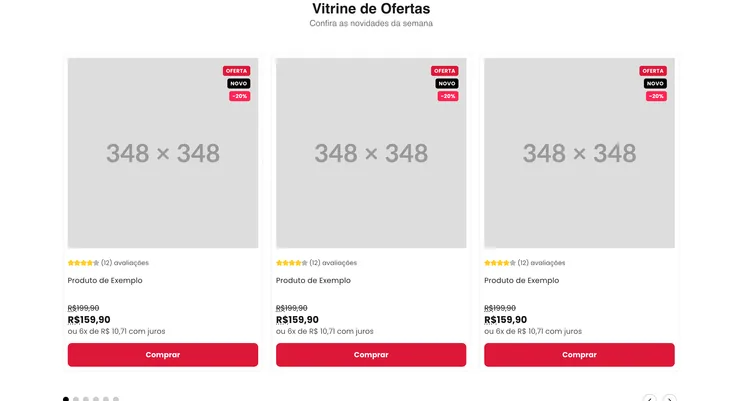
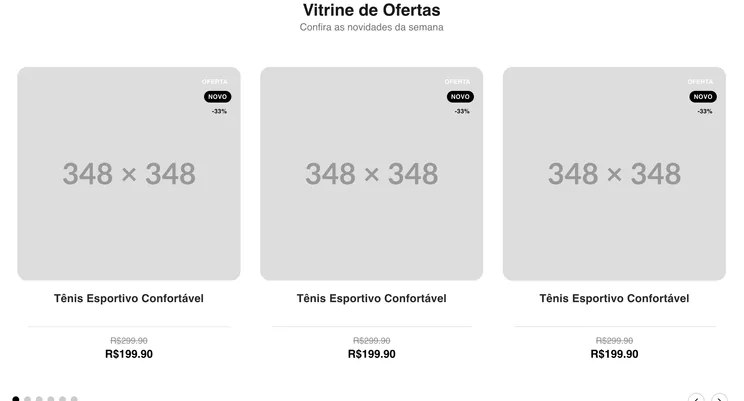
fix(catalogo): a vitrine 2 e a 6 mostravam o card de produto da família 1
Achados de uma revisão que só foi possível depois das thumbs: com cada card do
seletor mostrando o componente de verdade, divergência virou coisa que se vê.
Cada achado passou por um cético antes de virar correção — 24 de 44 sobreviveram,
e as 20 refutadas incluem quase toda a minha hipótese de que os componentes
portados do starter divergiriam do design (não divergem: a réplica é 1:1 com o
componente REAL, e é o mockup que é outra coisa — está no contrato, docs/CATALOGO).

**O bug de produto.** `home/template_2/Showcase` e `home/template_6/Showcase`
importavam o Spot de `common/template_1`. Como `selections` nasce vazio
(useLayoutGenerator:107), esse fallback é o caminho PADRÃO: quem arrastava a
vitrine antes de escolher um card via, no canvas, no /p/{id} e nos PNGs do export,
o card da família errada. Os outros cinco Showcase já importavam o da própria
família. Medido em .funil/Showcase06.png antes, e na thumb regerada depois.

**Duas travas minhas que não travavam.**
- aplicar.mjs derivava `imageSource` só de mapa.json, então tirar um componente
  de lá rebaixava o item para "auto" com a arte do designer intacta em disco — e
  a rodada seguinte de auto.mjs a sobrescrevia. Os "dois cadeados" que o commit
  anterior anunciava eram um só, com uma rodada de atraso. Agora `design` gruda:
  lê-se da linha original antes de zerar. Para rebaixar de verdade, apague o .webp.
- design.mjs fazia exit(1) sem os mockups. Como eles não são versionados (~40 MB),
[…]

diff --git a/src/data/layoutData.ts b/src/data/layoutData.ts
@@ -80,7 +80,8 @@ export type LayoutItem = {
    * `design`  — mockup entregue pelo designer (Banners E-temas). Intocável.
    * `auto`    — screenshot do componente real gerado por `yarn thumbs`.
    *             Vale como **pendência**: é o que ainda não veio do design.
-   * ausente   — sem imagem; o card cai no placeholder.
+   * ausente   — NÃO é estado aceito: o estágio 1 do funil reprova item sem thumb em
+   *              disco. Rode `yarn thumbs:auto` para gerar o screenshot do componente.
    * `scripts/thumbs/auto.mjs` NUNCA sobrescreve um item marcado `design`.
    */
   imageSource?: "design" | "auto";

diff --git a/src/components/templates/home/template_2/Showcase/index.tsx b/src/components/templates/home/template_2/Showcase/index.tsx
@@ -2,7 +2,7 @@
 
 import React from 'react';
 import styles from './index.module.css';
-import Spot from '@/components/templates/common/template_1/Spot';
+import Spot from '@/components/templates/common/template_2/Spot';
 import { TemplateRegistry } from '@/utils/templateRegistry';
 import { LAYOUTS } from '@/data/layoutData';
 import { useLayout } from '@/context/LayoutContext';

diff --git a/src/components/templates/home/template_6/Showcase/index.tsx b/src/components/templates/home/template_6/Showcase/index.tsx
@@ -2,7 +2,7 @@
 
 import React from 'react';
 import styles from './index.module.css';
-import Spot from '@/components/templates/common/template_1/Spot';
+import Spot from '@/components/templates/common/template_6/Spot';
 import { TemplateRegistry } from '@/utils/templateRegistry';
 import { LAYOUTS } from '@/data/layoutData';
 import { useLayout } from '@/context/LayoutContext';

diff --git a/scripts/funil/README.md b/scripts/funil/README.md
@@ -20,8 +20,11 @@ e o `yarn dev` de pé para os estágios 2 e 3. Saídas em `.funil/` (ignorada).
 | Estágio | O que prova | Precisa de |
 |---|---|---|
 | `1-catalogo` | chaves e ids únicos, registry casado, mock em disco, **origem real em `global-templates`** para todo item Tray/Wake, manifest para todo `path` VTEX | nada |
+| `1-grafo` | todo `path` VTEX resolve no grafo de `manifest.json`, com o `AssetRegistry` e o `DependencyResolver` reais do generator | checkouts irmãos de `faststore.starter` e `produtos-template-generator` |
+| `1-variaveis` | toda `cssVar` do `variablesSchema` é consumida pelo CSS, e o `default` bate com o nível 3 do fallback encadeado | nada |
+| `2-fidelidade` | a réplica do catálogo bate com o componente real do starter | dev server **e** o `yarn dev` do `faststore.starter` em :3000 |
 | `2-editor` | shell, canvas, painéis, atalhos, modal, troca de plataforma, fonte que não vaza no `:root`, contraste derivado | dev server |
-| `2-render` | **os 67 componentes do catálogo** montam sozinhos, sem erro de console, com altura e conteúdo (`FUNIL_RENDER_NOVOS=1` reduz aos 23 do redesign) | dev server |
+| `2-render` | **todo item do catálogo** monta sozinho, sem erro de console, com altura e conteúdo (`FUNIL_RENDER_NOVOS=1` reduz aos 23 do redesign) | dev server |
 | `2-edicao` | regras de negócio: singleton substitui, não-singleton coexiste, duplicar/remover, painel de variáveis, troca de plataforma | dev server |
 | `2-geometria` | fidelidade ao Figma: **119 nós comparados** (134 asserções), tolerância por classe de nó e exceções codificadas por eixo. Imprime o censo das fixtures e reprova se a cobertura regredir. **Reprova** | dev server |
 | `2-preview` | visão mobile, link `/p/{id}/{page}` compartilhável e a rota `/gerador/import-log` | dev server |
@@ -166,13 +169,15 @@ a geração do tema inteiro, não só aquele componente.
 (o runner só pega `^\d`). É inventário para decidir.
 
 Ele responde "quais assets do `faststore.starter` nenhum tema consegue receber", e
-existe porque o estágio 1 responde só metade. `conferirImports` parte dos 40 `path`
-VTEX do catálogo — 106 assets. Faltam dois grupos de root que o resto do pipeline
+existe porque o estágio 1 responde só metade. `conferirImports` parte apenas dos
+`path` VTEX do catálogo (63 hoje). Faltam dois grupos de root que o resto do pipeline
 injeta: `overrides/CrossSellingShelf01` (auto-injetado por `useLayoutGenerator`
 quando `ProductShowcase01` é escolhido) e `organisms/ProductShowcase<NN>` (empurrado
 por `BuildPipeline._resolve` para o sufixo da vitrine escolhida). Com os três grupos
-são 46 roots → **109 assets**, e é por isso que uma varredura ingênua acusa o
-`ProductShowcase07` de órfão sem ele ser.
+são **69 roots → 151 assets** dos 186 manifests (medido: o script imprime as quatro
+linhas), e é por isso que uma varredura ingênua acusa o `ProductShowcase07` de órfão
+sem ele ser. Os números envelhecem a cada componente novo — rode `yarn alcance` em vez
+de confiar nestes.
 
 O script também varre **import não declarado nos 186 manifests**, não só nos que
 estão no alcance — um asset com `section` e import não declarado compila aqui e

diff --git a/.claude/commands/from-faststore.md b/.claude/commands/from-faststore.md
@@ -202,7 +202,7 @@ Para cada match, monte um `ComponentVariable` (`{ cssVar, label, type, default, 
 
 ## 6. Registrar nos 3 lugares (ver `CLAUDE.md` → "Adding or editing a template")
 
-1. **`src/utils/templateRegistry.ts`** — `import <Componente> from '@/components/templates/<pagina>/template_N/<Família>';` (no bloco do template N; `<Componente>` = chave com número, ex.: `ProductInfo03`; `<Família>` = pasta do slot, ex.: `ProductInfo` — passo 2) e adicione `<Componente>` ao objeto `TemplateRegistry`. A string-chave **deve** bater com o campo `component` (senão `ThemeRenderer` cai no PNG placeholder).
+1. **`src/utils/templateRegistry.ts`** — `import <Componente> from '@/components/templates/<pagina>/template_N/<Família>';` (no bloco do template N; `<Componente>` = chave com número, ex.: `ProductInfo03`; `<Família>` = pasta do slot, ex.: `ProductInfo` — passo 2) e adicione `<Componente>` ao objeto `TemplateRegistry`. A string-chave **deve** bater com o campo `component` (senão `ThemeRenderer` desenha um marcador vermelho nomeando o componente — não é mais um PNG placeholder mudo).
 2. **`src/data/layoutData.ts`** — `LayoutItem` na `LayoutSection` da seção mapeada:
    - `id`: o número livre do slot (`"03"`); `template`: o número (`"3"`); `selection`/`pagina`: do passo 2 (ambos do **passo 2**, não do sufixo FastStore).
    - `key`: **12 chars único** — gere e cheque colisão (`grep "key:" src/data/layoutData.ts`).
@@ -210,7 +210,14 @@ Para cada match, monte um `ComponentVariable` (`{ cssVar, label, type, default, 
    - `platforms`: inclua `'VTEX'` (pergunte se também `'Tray'`/`'Wake'`).
    - `path`: do `manifest.id` do componente migrado (organism quando for bloco colocável, ex.: `"organisms/ProductDetails02"`) — **obrigatório p/ VTEX**; sem ele o `buildFaststoreConfigJson` descarta a entrada. Pode diferir do `component`.
    - `backgroundVars`: no **caminho A**, derive dos tokens de fundo herdados (`--background-footer`→`"footer"`, `--background-primary-color`→`"primary"`, `--background-secundary-color`→`"secondary"`, `--background-tertiary-color`→`"tertiary"`). No **caminho B** (fiel, sem herança), `[]`.
-   - `image`/`mobile`: `""` (o preview substitui o PNG).
+   - `image`/`imageSource`: **não preencha à mão.** Deixe `image: ""` e, depois de registrar,
+     rode `yarn thumbs:auto` (precisa do `yarn dev` de pé): ele fotografa o componente real,
+     grava `public/images/gerador/<layoutKey>/<Component>.webp` e escreve os dois campos com
+     `imageSource: "auto"` — que é o que sinaliza "ainda sem arte do designer".
+     Sem esse passo o item nasce com o card cinza do `placehold.co` e **fica invisível na
+     contabilidade de pendências** (`docs/THUMBS-DOS-COMPONENTES.md` é gerado a partir do disco).
+   - `mobile`: `""`. Campo declarado e não lido por nenhum componente — os mockups do designer
+     já trazem desktop e celular no mesmo quadro.
    - `variablesSchema`: o array do passo 5.
 
 ## 7. Atualizar docs/memória do catálogo

diff --git a/README.md b/README.md
@@ -84,9 +84,9 @@ o preview, converte o SCSS, deriva o `variablesSchema` e registra tudo.
 3. **Catálogo** — um `LayoutItem` em [src/data/layoutData.ts](src/data/layoutData.ts), com `key`
    única e, para VTEX, o `path` do componente no starter.
 
-Faltando o registro no registry, o item cai num PNG placeholder **sem erro nenhum**. Hoje os dois
-lados estão casados — 67 componentes, 67 itens ativos, zero órfãos — e é o estágio 1 do funil que
-mantém assim, junto com o comando de auditoria no `CLAUDE.md`.
+Faltando o registro no registry, o `ThemeRenderer` desenha um marcador vermelho nomeando o
+componente. Hoje os dois lados estão casados — **90 componentes, 90 itens ativos, zero órfãos** —
+e é o estágio 1 do funil que mantém assim, junto com o comando de auditoria no `CLAUDE.md`.
 
 ---
 
@@ -113,12 +113,17 @@ src/
 └── styles/                     globals · editor-tokens · templates · storefront · preview · editor-canvas
 ```
 
-Os 42 PNGs de `public/images/gerador/` (8,3 MB) **saíram**. Eram screenshots da época anterior
-ao preview em React: o commit `5633c33` trocou `image: "header/desktop/header_01.png"` por
-`image: ""` nos 67 itens e os arquivos ficaram para trás. Com todos vazios, o "fallback" que a
-doc prometia era um `<img src="/images/gerador/">` — 404 mudo. Hoje o `ThemeRenderer` mostra um
-marcador vermelho nomeando o componente que falta no registry, que é o erro que interessa ver.
+Cada card do modal "Componentes de seções" mostra
+`public/images/gerador/<layoutKey>/<Component>.webp`, apontado pelo `image` do item. O campo
+`imageSource` diz se a miniatura é arte do designer (`design`) ou um screenshot do componente
+real (`auto`) — e `auto` **é a pendência**: é o que ainda não veio do design. A contagem viva
+está em [docs/THUMBS-DOS-COMPONENTES.md](docs/THUMBS-DOS-COMPONENTES.md), que é gerado; não a
+copie para cá, que foi assim que a versão anterior desta seção envelheceu.
 
-Os campos `image`/`mobile` do `LayoutItem` continuam existindo e **vazios de propósito**: o
-`SelectSectionItem` os consulta para a miniatura do modal e cai num placeholder externo. Trocar
-essa miniatura pelo preview real é decisão de produto, não limpeza.
+`yarn thumbs` regera tudo (`yarn thumbs:auto` pula a etapa que depende dos mockups, que não são
+versionados). O estágio 1 do funil reprova thumb faltando, `imageSource` ausente, caminho fora da
+regra e arquivo órfão — a partir de 15/09/2026, quando os 90 cards deixaram de ser o mesmo
+quadrado cinza do `placehold.co`.
+
+O campo `mobile` continua declarado e vazio: nenhum componente o lê, e os mockups do designer já
+trazem desktop e celular no mesmo quadro.

diff --git a/CLAUDE.md b/CLAUDE.md
@@ -19,7 +19,7 @@ yarn lint      # next lint
 yarn start     # next start (production)
 ```
 
-There is no test runner. Verification is `yarn funil` — six stages covering catalog integrity, the editor, the export and the theme the generator assembles from it. See [scripts/funil/README.md](scripts/funil/README.md). It needs `yarn dev` up for stages 2 and 3, and a Chrome (or `CHROME_PATH`).
+There is no test runner. Verification is `yarn funil` — the stages in [scripts/funil/](scripts/funil/) covering catalog integrity, the editor, the export and the theme the generator assembles from it. See [scripts/funil/README.md](scripts/funil/README.md) for what each one proves and what it needs. It wants `yarn dev` up, a Chrome (or `CHROME_PATH`), and — for `2-fidelidade` — the starter's own `yarn dev` on :3000; the preflight aborts the whole run when that one is missing, so reach for a single stage (`yarn funil 1`) when you only need the static checks.
 
 ### Required env vars
 
@@ -145,7 +145,7 @@ The downstream **template-generator** reads each entry's `variables` and injects
 - **`pagina === "common"`** — the code loops `item.pagina.map(...)` to produce one `LayoutSelection` per entry, but in practice **every item in `layoutData.ts` has a single-element `pagina`**, so a `common` item yields exactly ONE row; it's `belongsToPage` that makes it show up on all three pages. Re-selecting the same common item on the same `layoutKey` replaces the existing row.
 - Other items — appended, with a `MAX_PER_PAGE` (currently 101) cap per page.
 
-The same `selection` strings drive the duplicate-button blacklist in [src/utils/sectionRules.ts](src/utils/sectionRules.ts) (`NON_DUPLICABLE_SELECTIONS`). It is keyed by `selection`, not `layoutKey`, and that is load-bearing: the `bannerFull` section mixes `banner-full` (duplicable) with `category-banner` (singleton), so no layoutKey rule can separate them. Update both lists when introducing a new singleton.
+The same `selection` strings drive the duplicate-button blacklist in [src/utils/sectionRules.ts](src/utils/sectionRules.ts) (`NON_DUPLICABLE_SELECTIONS`). It is keyed by `selection`, not `layoutKey`, and that is load-bearing: the `bannerFull` section mixes `banner-full` (duplicable) with `category-banner` (singleton), so no layoutKey rule can separate them. A new singleton goes in **`PAGE_SINGLETON_SELECTIONS`** — that's the list `toggleSelection` reads, and `NON_DUPLICABLE_SELECTIONS` is a union derived from it, which the file itself says not to edit by hand.
 
 ### Render order
 

diff --git a/docs/CATALOGO-E-FASTSTORE.md b/docs/CATALOGO-E-FASTSTORE.md
@@ -129,7 +129,7 @@ Fora da leva de propósito: **`WiddeScript06`** (injeta script de terceiro, não
 UI) e os **16 institucionais**, que exigem abrir o tipo de página `landingPage` em
 toda a cadeia.
 
-Nove componentes não tinham slot equivalente e ganharam **seção própria** no
+Dez componentes não tinham slot equivalente e ganharam **seção própria** no
 painel: Ambientes, Newsletter, Compre por tamanho, Ajuda flutuante, Outras linhas,
 Banner do produto, Título da categoria, Avaliações do produto, Abas de categoria e
 Pop-up de newsletter. Criar uma seção custa três edições — a linha no tipo
